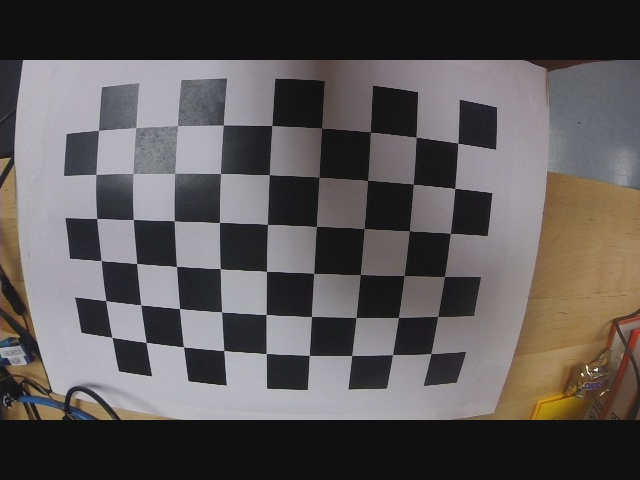
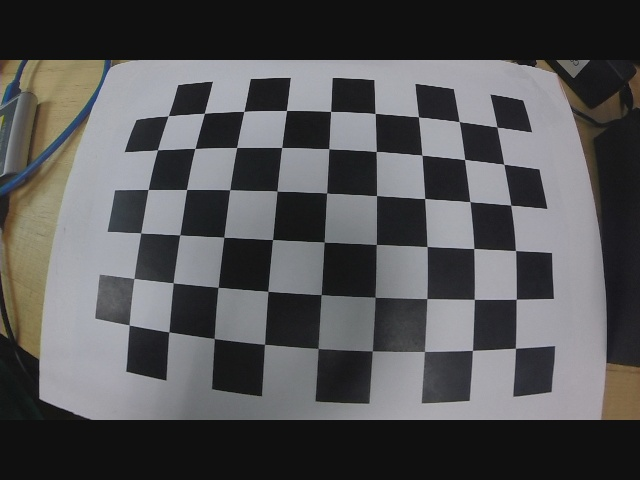
Square detectoin

diff --git a/fiducial.py b/fiducial.py
@@ -3,85 +3,49 @@ import numpy as np
 import matplotlib as plt
 import math
 
-from gopro2_calibration import *
+def angle_cos(p0, p1, p2):
+    d1, d2 = (p0-p1).astype('float'), (p2-p1).astype('float')
+    return abs( np.dot(d1, d2) / np.sqrt( np.dot(d1, d1)*np.dot(d2, d2) ) )
+
+def find_squares(img):
+    img = cv2.GaussianBlur(img, (5,5), 0)
+    img = cv2.morphologyEx(img, cv2.MORPH_OPEN, (5,5))
+    squares = []
+    bin = cv2.Canny(img, 100, 250, apertureSize=5)
+    bin = cv2.dilate(bin, None)
+    retval, bin = cv2.threshold(img, 100, 255, cv2.THRESH_BINARY)
+    contours, hierarchy = cv2.findContours(bin, cv2.RETR_TREE, cv2.CHAIN_APPROX_SIMPLE)
+
+    i1 = 0
+    for cnt in contours:
+    	children = 0
+        cnt_len = cv2.arcLength(cnt, True)
+        cnt = cv2.approxPolyDP(cnt, 0.02*cnt_len, True)
+        if len(hierarchy[0]) > 0:
+            i2 = hierarchy[0][i1][2]
+            while i2 != -1:
+                i2 = hierarchy[0][i2][0]
+                children += 1
+
+        i1 += 1
+        if children >= 4 and len(cnt) == 4 and cv2.contourArea(cnt) > 100 and cv2.contourArea(cnt) < 250000 and cv2.isContourConvex(cnt):
+            cnt = cnt.reshape(-1, 2)
+            max_cos = np.max([angle_cos( cnt[i], cnt[(i+1) % 4], cnt[(i+2) % 4] ) for i in xrange(4)])
+            if max_cos < 0.1:
+                squares.append(cnt)
+
+    return squares
+
 
 cap = cv2.VideoCapture(0)
-buffer_lines = []
-buffer_length = 10
-
-rho_epsilon = 5
-theta_epsilon = 0.1
-
-similar = []
 
 while(True):
-	ret, frame = cap.read()
-	# dst = cv2.undistort(frame, mtx, dist, None, newcameramtx)
-	# x,y,w,h = roi
-	# frame = dst[y:y+h, x:x+w]
-	gray = cv2.cvtColor(frame, cv2.COLOR_BGR2GRAY)
-	ret, thresh = cv2.threshold(gray, 255, cv2.ADAPTIVE_THRESH_GAUSSIAN_C, 11, 2)
-	ret, thresh = cv2.threshold(thresh, 150, 255, cv2.THRESH_BINARY)
-	opening = cv2.morphologyEx(thresh, cv2.MORPH_OPEN, np.ones(7))
-
-	contours, hierarchy = cv2.findContours(opening, cv2.RETR_TREE, cv2.CHAIN_APPROX_SIMPLE)
-	contours_only = np.zeros(gray.shape, np.float32)
-	contours_only = cv2.cvtColor(contours_only, cv2.COLOR_GRAY2BGR)
-	if contours != None:
-		cv2.drawContours(contours_only, contours, -1, (255,255,255), 3)
-	contours_only = cv2.cvtColor(contours_only, cv2.COLOR_BGR2GRAY)
-	contours_only = contours_only.astype(np.uint8)
-
-	canny = cv2.Canny(gray, 400, 600, 3)
-	res = cv2.bitwise_and(canny, contours_only)
-
-	lines = cv2.HoughLines(res, 0.5, np.pi/360, 30)
-	if lines != None:
-		buffer_lines.append(lines[0])
-		if len(buffer_lines) > buffer_length:
-			buffer_lines.pop(0)
-		for i in range(len(buffer_lines)):
-			lines = [(rho, theta) for (rho, theta) in buffer_lines[i]]
-
-		if len(lines) > 1:
-			for i in range(len(lines)):
-				for j in range(i+1, len(lines)):
-					rho1 = lines[i][0]
-					theta1 = lines[i][1]
-					rho2 = lines[j][0]
-					theta2 = lines[j][1]
-
-					if abs(rho1 - rho2) < rho_epsilon and abs(theta1 - theta2) < theta_epsilon:
-						similar.append(i)
-						lines[j] = ((rho1 + rho2) / 2, (theta1 + theta2) / 2)
-
-			lines = [i for j, i in enumerate(lines) if j not in similar]
-			print similar
-			similar = []
-	else:
-		if len(buffer_lines) > 0:
-			buffer_lines.pop(0)
-
-	if lines != None:
-		for rho, theta in lines:
-			a = np.cos(theta)
-			b = np.sin(theta)
-			x0 = a*rho
-			y0 = b*rho
-			x1 = int(x0 + 1000*(-b))
-			y1 = int(y0 + 1000*(a))
-			x2 = int(x0 - 1000*(-b))
-			y2 = int(y0 - 1000*(a))
-			cv2.line(gray, (x1,y1), (x2,y2), (0,0,255), 3)
-
-	# lines = cv2.HoughLinesP(res, 1, np.pi/180, 70, 10, 10)
-	# if lines != None:
-	# 	for x1, y1, x2, y2 in lines[0]:
-	# 	    cv2.line(gray, (x1,y1), (x2,y2), (0,255,0), 2)
-
-
-	cv2.imshow('res', res)
-	cv2.imshow('final image', gray)
+	ret, img = cap.read()
+	img = cv2.cvtColor(img, cv2.COLOR_BGR2GRAY)
+	squares = find_squares(img)
+	img = cv2.cvtColor(img, cv2.COLOR_GRAY2BGR)
+	cv2.drawContours( img, squares, -1, (0, 255, 0), 2 )
+	cv2.imshow('squares', img)
 
 	if cv2.waitKey(1) & 0xFF == ord('q'):
 		break

diff --git a/homography.py b/homography.py
@@ -1,0 +1,57 @@
+import numpy as np
+import cv2
+from matplotlib import pyplot as plt
+
+MIN_MATCH_COUNT = 10
+FLANN_INDEX_KDTREE = 0
+index_params = dict(algorithm = FLANN_INDEX_KDTREE, trees = 5)
+search_params = dict(checks = 50)
+flann = cv2.FlannBasedMatcher(index_params, search_params)
+
+cap = cv2.VideoCapture(0)
+
+img1 = cv2.imread('artoolkit.jpg',0)    # queryImage
+# Initiate SIFT detector
+sift = cv2.SIFT()
+kp1, des1 = sift.detectAndCompute(img1,None)
+
+
+while True:
+	ret, img2 = cap.read() # trainImage
+	kp2, des2 = sift.detectAndCompute(img2,None)
+
+	if des2 != None:
+		matches = flann.knnMatch(des1,des2,k=2)
+
+		# store all the good matches as per Lowe's ratio test.
+		good = []
+		for m,n in matches:
+			if m.distance < 0.7*n.distance:
+				good.append(m)
+
+		if len(good)>MIN_MATCH_COUNT:
+			src_pts = np.float32([ kp1[m.queryIdx].pt for m in good ]).reshape(-1,1,2)
+			dst_pts = np.float32([ kp2[m.trainIdx].pt for m in good ]).reshape(-1,1,2)
+
+			M, mask = cv2.findHomography(src_pts, dst_pts, cv2.RANSAC,5.0)
+			matchesMask = mask.ravel().tolist()
+
+			h,w = img1.shape
+			pts = np.float32([ [0,0],[0,h-1],[w-1,h-1],[w-1,0] ]).reshape(-1,1,2)
+			dst = cv2.perspectiveTransform(pts,M)
+
+			img2 = cv2.polylines(img2,[np.int32(dst)],True,255,3, cv2.LINE_AA)
+
+		else:
+		    print "Not enough matches are found - %d/%d" % (len(good),MIN_MATCH_COUNT)
+		    matchesMask = None
+
+
+		draw_params = dict(matchColor = (0,255,0), # draw matches in green color
+	                   singlePointColor = None,
+	                   matchesMask = matchesMask, # draw only inliers
+	                   flags = 2)
+
+		img3 = cv2.drawMatches(img1,kp1,img2,kp2,good,None,**draw_params)
+		
+		plt.imshow(img3, 'gray'),plt.show()

diff --git a/squares.py b/squares.py
@@ -1,0 +1,44 @@
+#!/usr/bin/env python
+
+'''
+Simple "Square Detector" program.
+
+Loads several images sequentially and tries to find squares in each image.
+'''
+
+import numpy as np
+import cv2
+
+
+def angle_cos(p0, p1, p2):
+    d1, d2 = (p0-p1).astype('float'), (p2-p1).astype('float')
+    return abs( np.dot(d1, d2) / np.sqrt( np.dot(d1, d1)*np.dot(d2, d2) ) )
+
+def find_squares(img):
+    img = cv2.GaussianBlur(img, (5, 5), 0)
+    squares = []
+    for gray in cv2.split(img):
+        for thrs in xrange(0, 255, 12):
+            if thrs == 0:
+                bin = cv2.Canny(gray, 0, 50, apertureSize=5)
+                bin = cv2.dilate(bin, None)
+            else:
+                retval, bin = cv2.threshold(gray, thrs, 255, cv2.THRESH_BINARY)
+            contours, hierarchy = cv2.findContours(bin, cv2.RETR_LIST, cv2.CHAIN_APPROX_SIMPLE)
+            for cnt in contours:
+                cnt_len = cv2.arcLength(cnt, True)
+                cnt = cv2.approxPolyDP(cnt, 0.02*cnt_len, True)
+                if len(cnt) == 4 and cv2.contourArea(cnt) > 1000 and cv2.isContourConvex(cnt):
+                    cnt = cnt.reshape(-1, 2)
+                    max_cos = np.max([angle_cos( cnt[i], cnt[(i+1) % 4], cnt[(i+2) % 4] ) for i in xrange(4)])
+                    if max_cos < 0.1:
+                        squares.append(cnt)
+    return squares
+
+if __name__ == '__main__':
+    img = cv2.imread('fiducial.png')
+    squares = find_squares(img)
+    cv2.drawContours( img, squares, -1, (0, 255, 0), 3 )
+    cv2.imshow('squares', img)
+    ch = 0xFF & cv2.waitKey()
+    cv2.destroyAllWindows()

diff --git a/gopro2_calibration.py b/gopro2_calibration.py
@@ -1,13 +1,13 @@
 import numpy as np
 
-roi = (19, 26, 592, 423)
+roi = (20, 9, 599, 457)
 
-newcameramtx = np.array([[  1.14628564e+03, 0.00000000e+00, 2.87128935e+02],
-                         [  0.00000000e+00, 1.27231165e+03, 1.77453471e+02],
+newcameramtx = np.array([[  1.60511682e+03, 0.00000000e+00, 3.26224887e+02],
+                         [  0.00000000e+00, 1.82623889e+03, 2.50284467e+02],
                          [  0.00000000e+00, 0.00000000e+00, 1.00000000e+00]])
 
-mtx = np.array([[  1.32103629e+03, 0.00000000e+00, 2.70700735e+02],
-                [  0.00000000e+00, 1.47702402e+03, 1.64634992e+02],
+mtx = np.array([[  1.75322209e+03, 0.00000000e+00, 3.28572114e+02],
+                [  0.00000000e+00, 2.00331871e+03, 2.33978731e+02],
                 [  0.00000000e+00, 0.00000000e+00, 1.00000000e+00]])
 
-dist = np.array([[ -3.49169049, 22.98048762, 0.05538769, 0.04189741, 0.]])
+dist = np.array([[-5.21909194e+00, 8.43871469e+01, 1.30411861e-01, -2.43854294e-03, 0.]])

diff --git a/unionfind.py b/unionfind.py
@@ -1,0 +1,38 @@
+class QuickUnionUF:
+	def __init__(self, N):
+		self.parent = range(N)
+		self.count = N
+		self.N = N
+
+	def find(self, p):
+		while (p != self.parent[p]):
+			p = self.parent[p]
+		return p
+
+	def connected(self, p, q):
+		return self.find(p) == self.find(q)
+
+	def union(self, p, q):
+		rootP = self.find(p)
+		rootQ = self.find(q)
+		if rootP == rootQ:
+			return
+		self.parent[rootP] = rootQ
+		self.count -= 1
+
+	def components(self):
+		unique = []
+		components = []
+
+		for i in range(self.N):
+			if self.find(i) not in unique:
+				unique.append(i)
+				component = [j for j in range(self.N) if self.connected(i, j) and i != j]
+				if component != []:
+					components.append(component)
+
+		return components
+
+	def reset(self):
+		self.parent = range(self.N)
+		self.count = self.N
